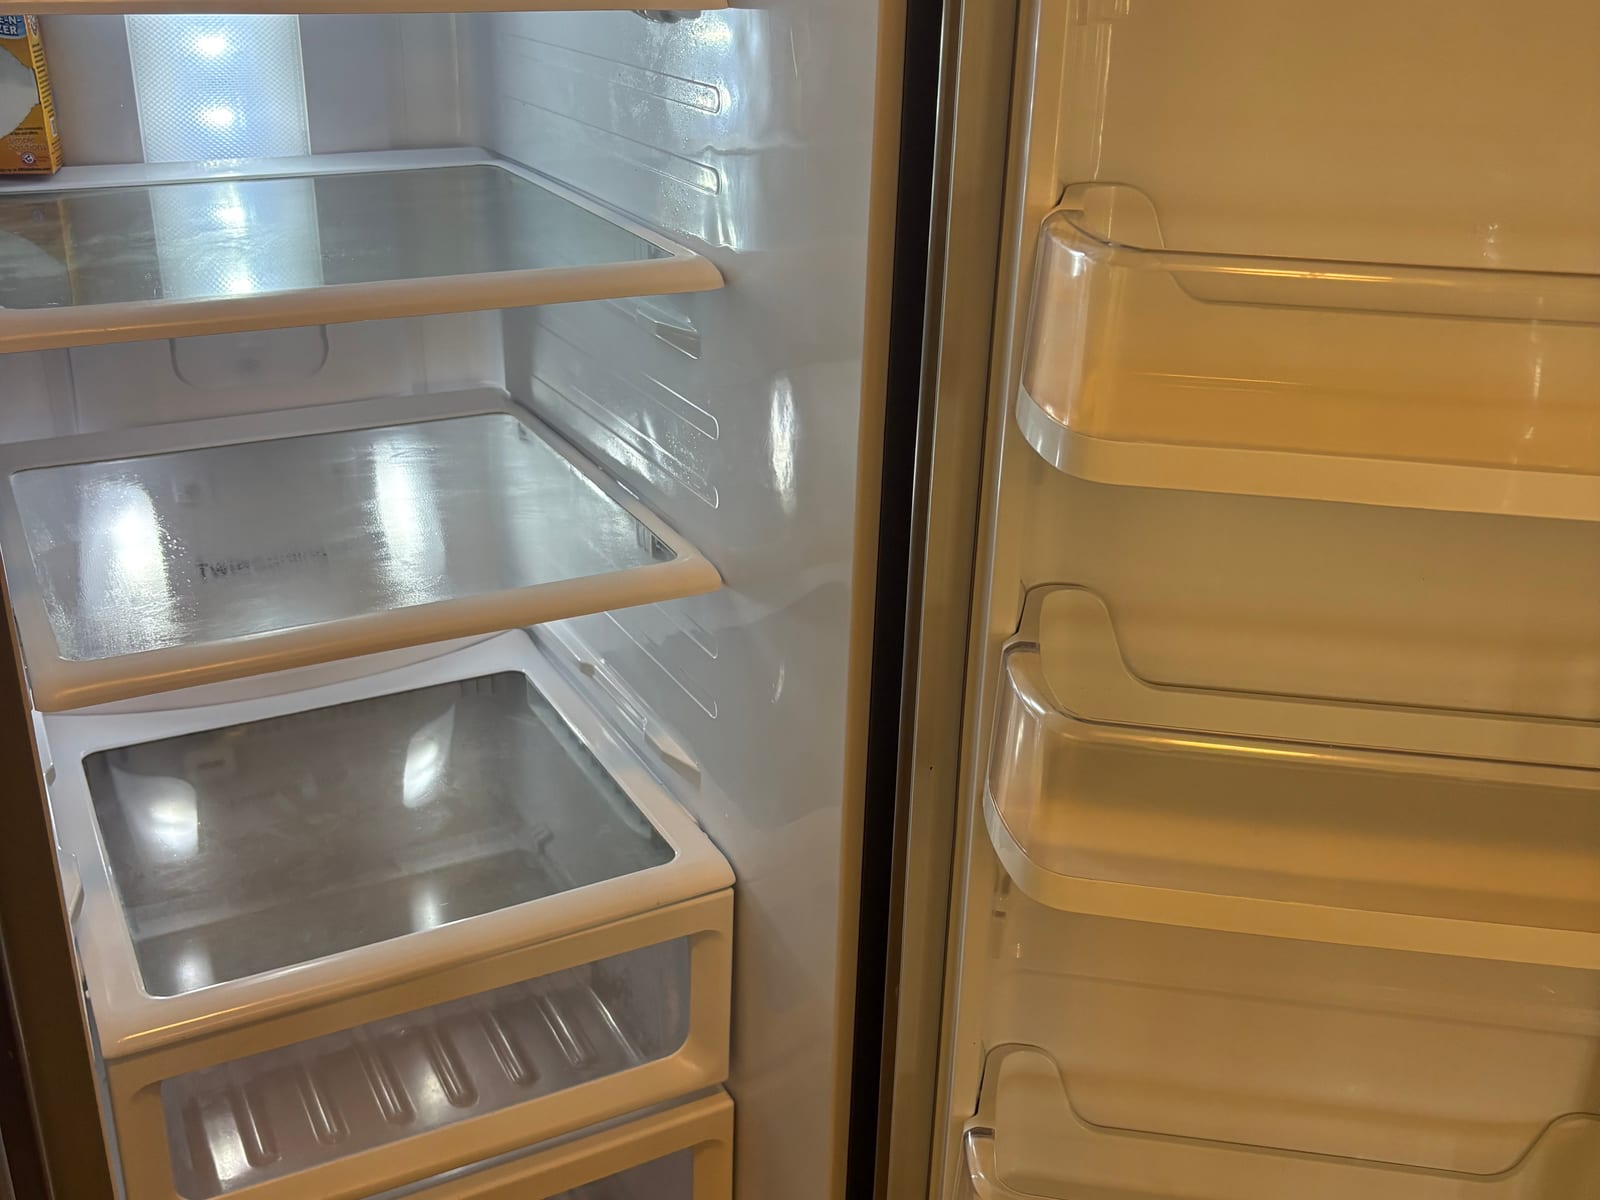
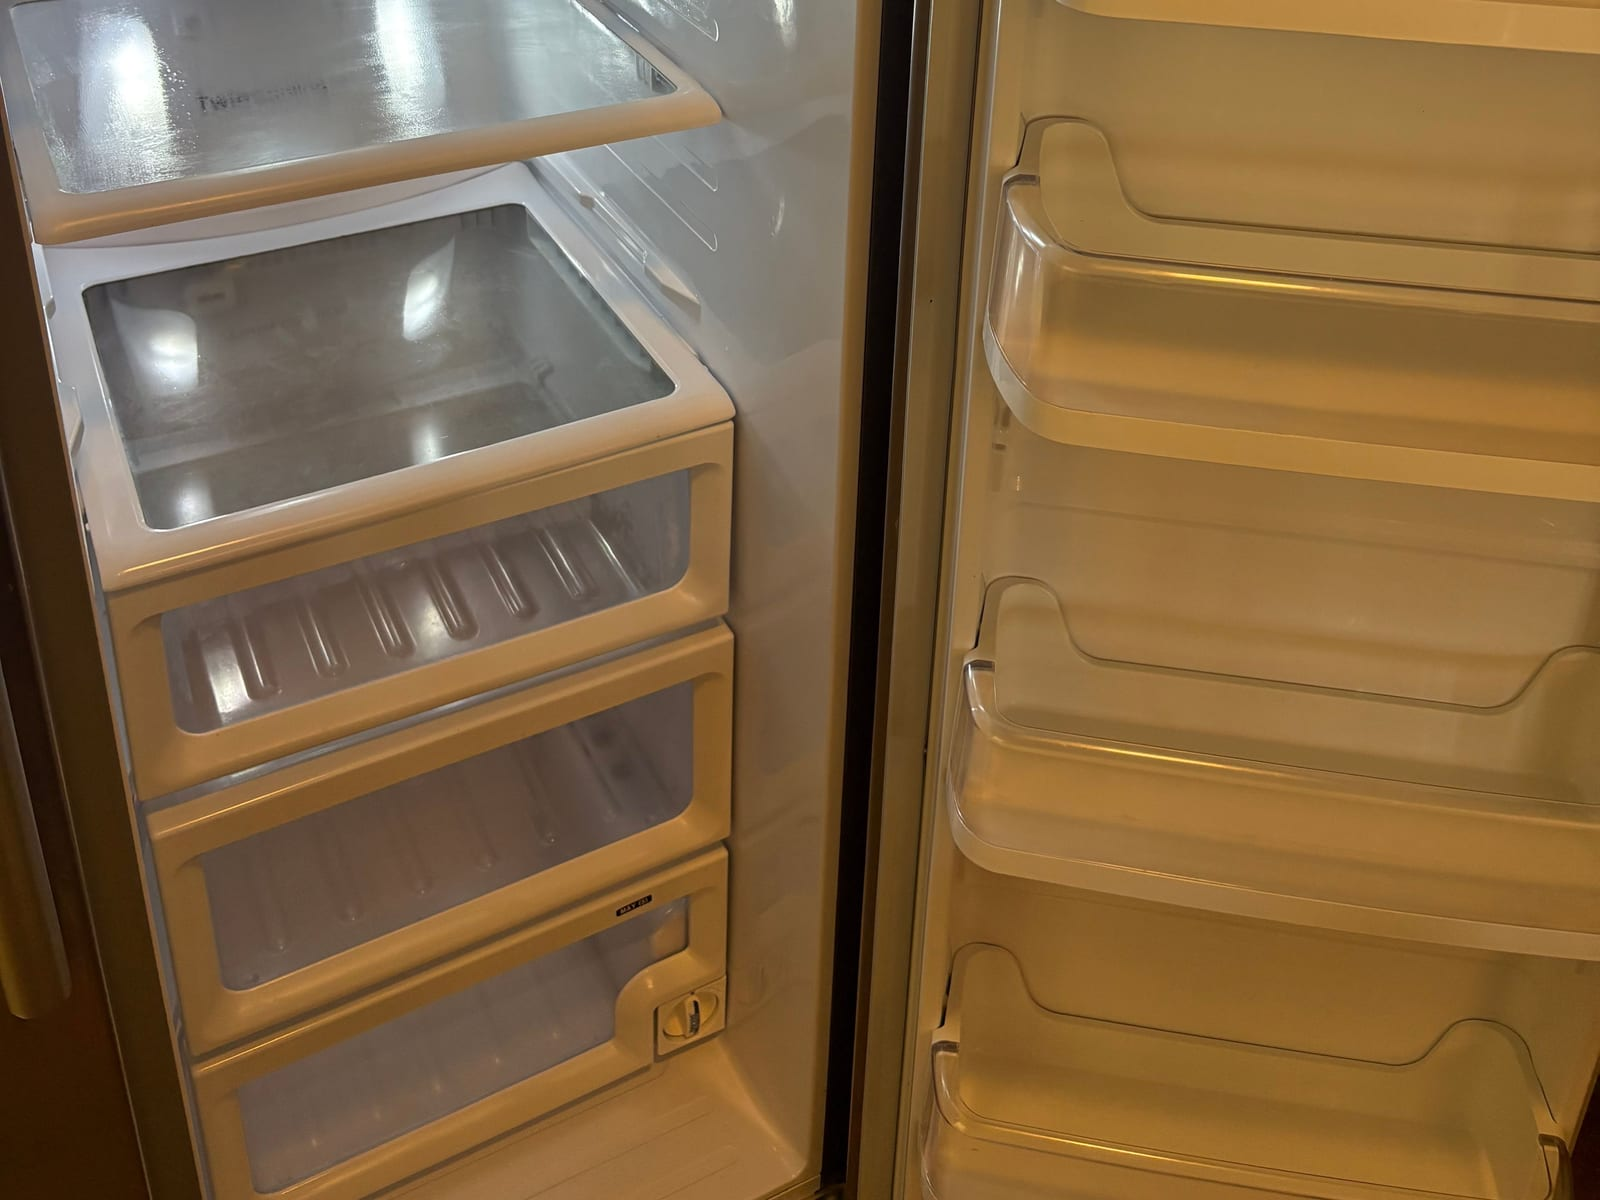
Feature our Google reviews and recrop the fridge pair around the stain
The reviews section led with Turno while the Google profile sits at 5.0
with real quotable reviews - the homepage badge row now leads with the
Google rating, both pages quote the actual Google reviews (attributed by
first name and last initial, exactly as written), and a Read Our Google
Reviews button links the listing via its stable cid URL. The Airbnb
Guest Rating badge came out - those stars belong to the properties, not
to us.

The fridge before/after was cropped to the least convincing band of the
photo - reframed both shots to the bottom band where the sauce spill on
the door shelf and the grimy drawers actually show the work.

diff --git a/index.html b/index.html
@@ -303,18 +303,18 @@
         <div class="container">
           <div class="section-heading centered">
             <p class="kicker">Reviews</p>
-            <h2>Five-Star Hosts. Five-Star Guests.</h2>
+            <h2>Five Stars on Google. Five Stars on Turno.</h2>
           </div>
           <div class="badge-grid">
             <article>
               <span class="stars" aria-hidden="true">★★★★★</span>
               <strong>5.0</strong>
-              <p>Turno Host Rating</p>
+              <p>Google Rating</p>
             </article>
             <article>
               <span class="stars" aria-hidden="true">★★★★★</span>
               <strong>5.0</strong>
-              <p>Airbnb Guest Rating</p>
+              <p>Turno Host Rating</p>
             </article>
             <article>
               <span class="stars" aria-hidden="true">★★★★★</span>
@@ -327,8 +327,16 @@
               <p>Background Checked on Turno</p>
             </article>
           </div>
-          <p class="badge-note">Ratings and completed-project counts reflect our public Turno profile as of July 20, 2026. Member since 2025.</p>
+          <p class="badge-note">Google rating as of August 29, 2026. Turno rating and completed-project count reflect our public Turno profile as of July 20, 2026. Member since 2025.</p>
           <div class="quote-grid">
+            <blockquote>
+              <p>"5 stars all the way! They consistently do an incredible job and always leave my Airbnb’s spotless and guest-ready. They’re quick to respond, available for last-minute cleanings… I highly recommend them to any host looking for a reliable, professional team."</p>
+              <cite>Shauna G. — Google review</cite>
+            </blockquote>
+            <blockquote>
+              <p>"They are reliable, detailed and priced fairly for this market. I would recommend Handyman Cleaners to everyone."</p>
+              <cite>Barbara C. — Google review</cite>
+            </blockquote>
             <blockquote>
               <p>"Brian is thorough, careful and detail oriented. He is doing a great job for me."</p>
               <cite>Vacation rental host, San Tan Valley — via Turno</cite>
@@ -339,6 +347,7 @@
             </blockquote>
           </div>
           <div class="centered-cta">
+            <a class="button primary" href="https://maps.google.com/?cid=1381117208641947854" target="_blank" rel="noopener">Read Our Google Reviews</a>
             <a class="button secondary" href="https://app.turno.com/vacation-rental-cleaner-profile/567383/452264/Queen%20Creek/Arizona/United%20States" target="_blank" rel="noopener">More Reviews on Turno</a>
           </div>
         </div>

diff --git a/services/house-cleaning/index.html b/services/house-cleaning/index.html
@@ -311,16 +311,17 @@
           </div>
           <div class="quote-grid">
             <blockquote>
-              <p>"Brian is thorough, careful and detail oriented. He is doing a great job for me."</p>
-              <cite>Vacation rental client, San Tan Valley — via Turno</cite>
+              <p>"Very detailed oriented. Above and beyond responsible. Great communication."</p>
+              <cite>Dianne H. — Google review</cite>
             </blockquote>
             <blockquote>
-              <p>"Best cleaners I've hired yet. They've never had any complaints."</p>
-              <cite>Vacation rental client, Queen Creek — via Turno</cite>
+              <p>"They are reliable, detailed and priced fairly for this market. I would recommend Handyman Cleaners to everyone."</p>
+              <cite>Barbara C. — Google review</cite>
             </blockquote>
           </div>
           <div class="centered-cta">
-            <a class="button secondary" href="https://app.turno.com/vacation-rental-cleaner-profile/567383/452264/Queen%20Creek/Arizona/United%20States" target="_blank" rel="noopener">More Verified Reviews</a>
+            <a class="button primary" href="https://maps.google.com/?cid=1381117208641947854" target="_blank" rel="noopener">Read Our Google Reviews</a>
+            <a class="button secondary" href="https://app.turno.com/vacation-rental-cleaner-profile/567383/452264/Queen%20Creek/Arizona/United%20States" target="_blank" rel="noopener">More Reviews on Turno</a>
           </div>
         </div>
       </section>

diff --git a/styles.css b/styles.css
@@ -844,6 +844,11 @@ footer a,
   text-align: center;
 }
 
+/* Two side-by-side buttons need breathing room when they wrap on mobile. */
+.centered-cta .button {
+  margin: 6px 8px;
+}
+
 /* CTA band */
 
 .cta-band {
